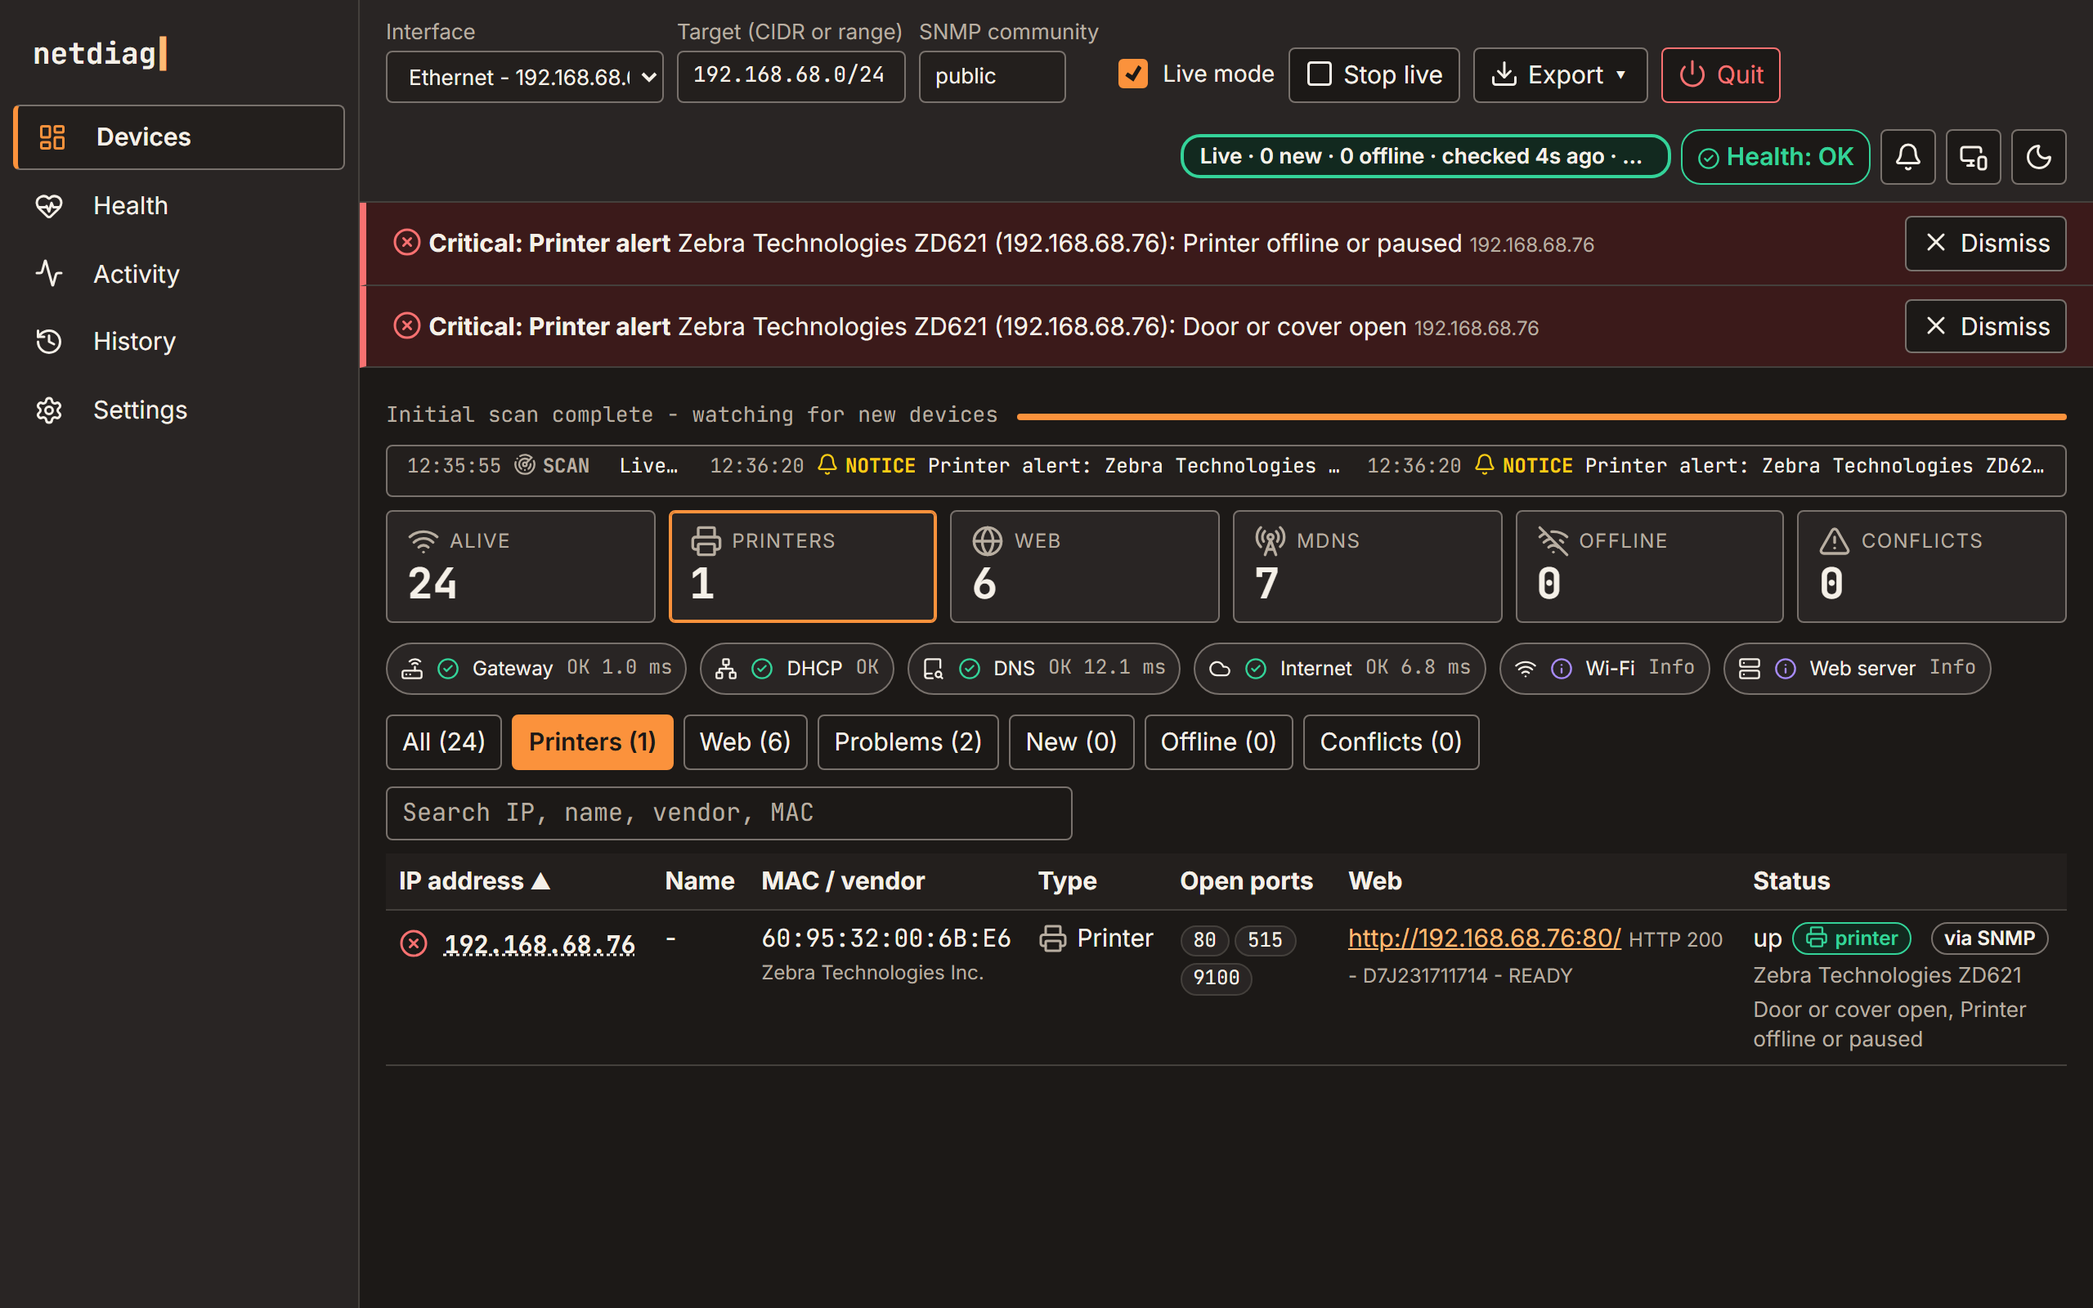
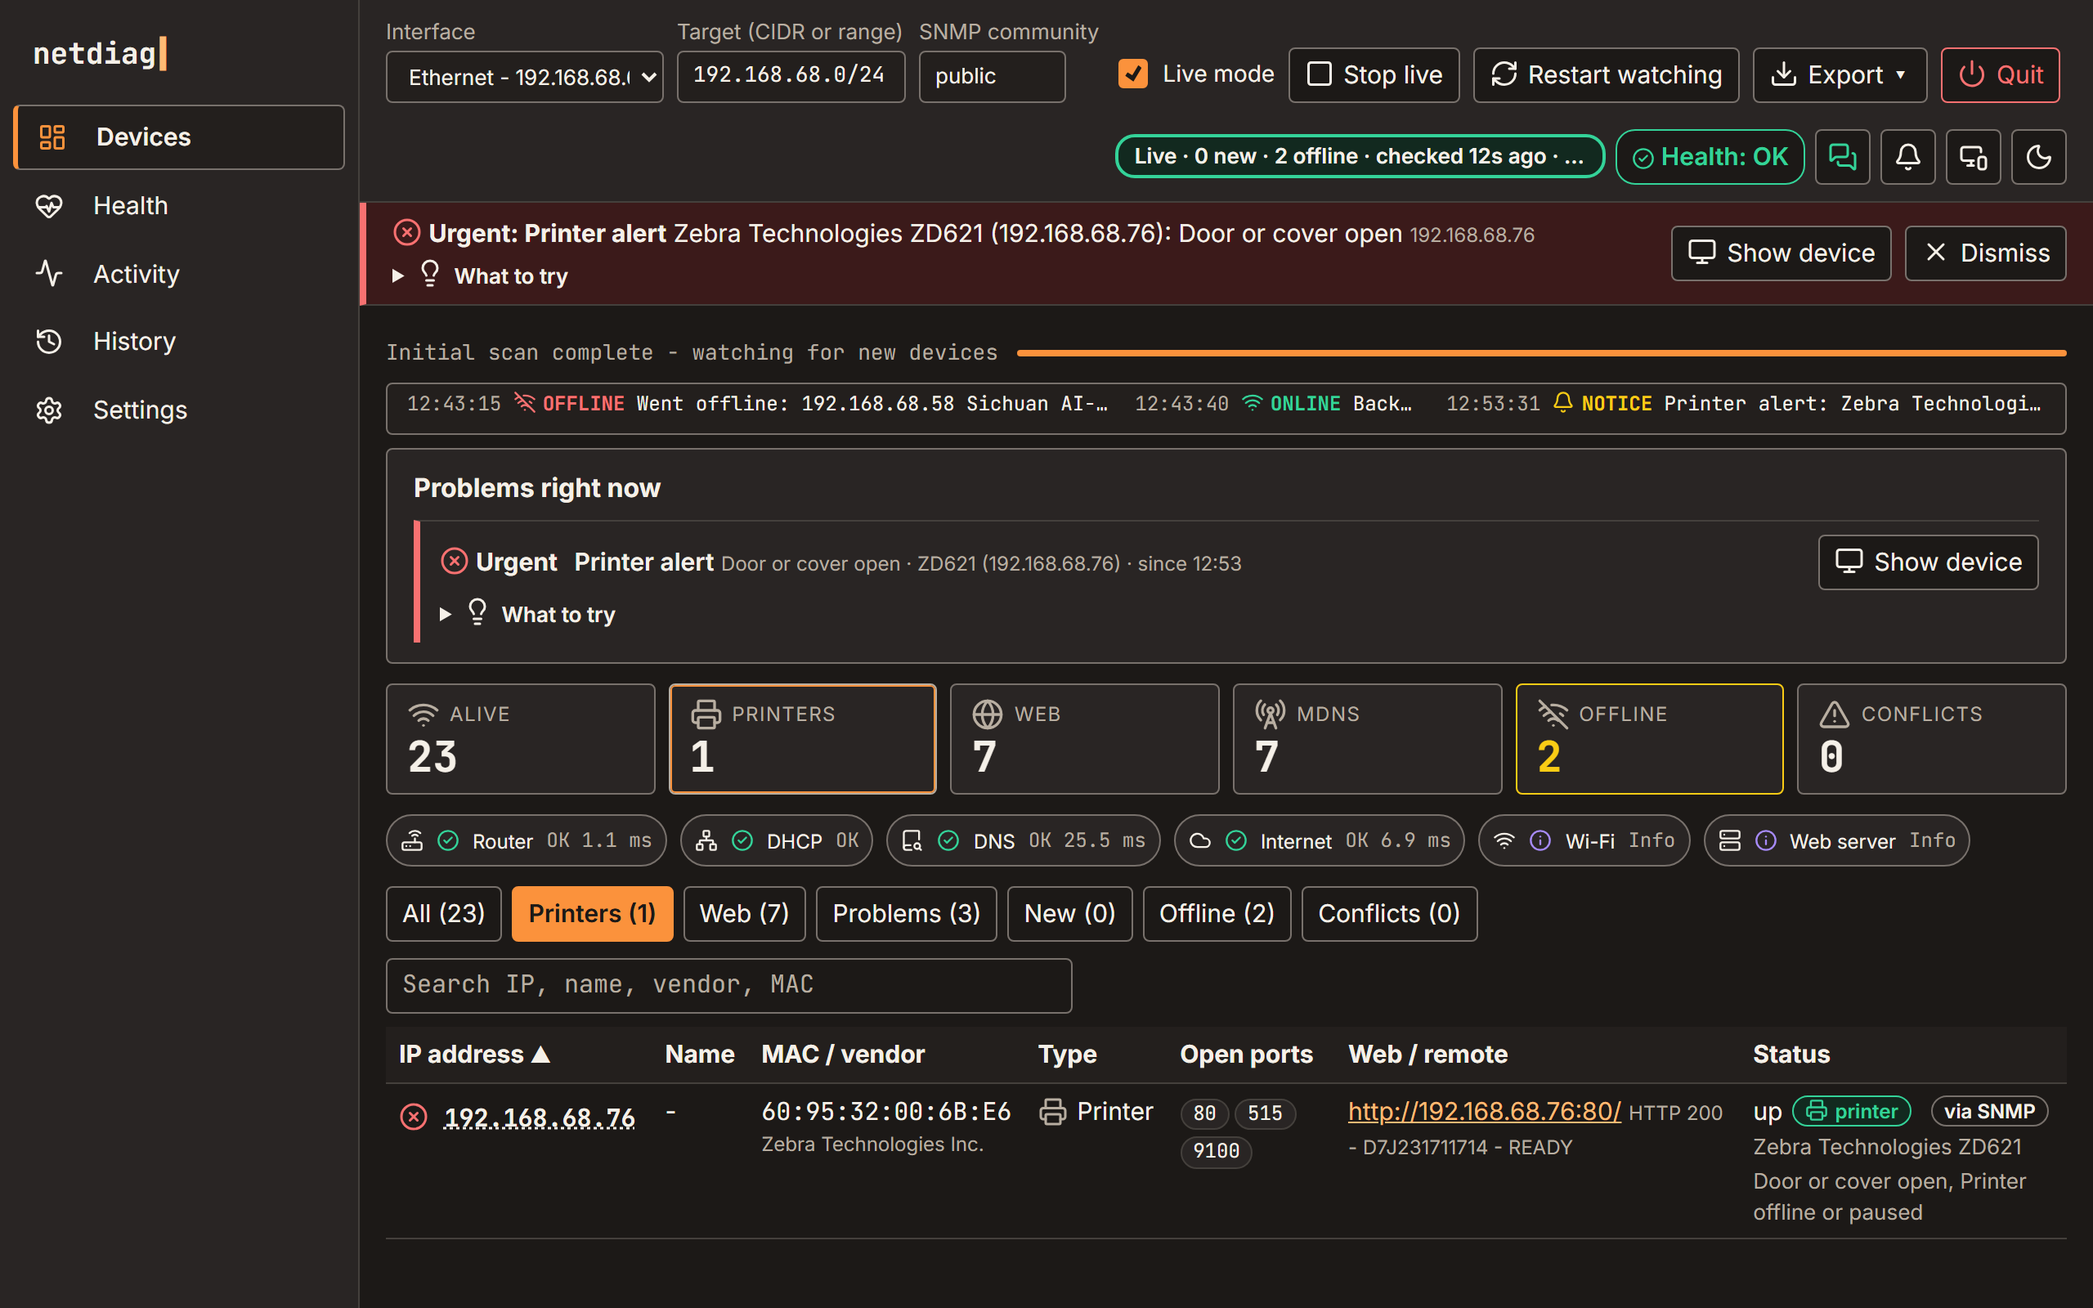
docs: v0.6 screenshots from the real Zebra and bubbles; site pill v0.6.0
The four real-zebra shots are retaken with the release candidate in one
run (cover opened 12:53:31, Fixed 12:54:06), and bubbles-resolved.png
shows the card netdiag closed with its "Fixed at 12:54" note. The site's
Zebra story and the README captions now describe these v0.6 shots, the
chat section shows the resolved card, and the version pill says v0.6.0.
docs-shots and site-shots were run again for the release.

diff --git a/docs/index.html b/docs/index.html
@@ -41,7 +41,7 @@
 <main id="main">
   <section class="hero" id="top">
     <div class="wrap narrow">
-      <p class="pill"><span class="pulse" aria-hidden="true"></span> v0.5.8 · Windows &amp; macOS · one binary</p>
+      <p class="pill"><span class="pulse" aria-hidden="true"></span> v0.6.0 · Windows &amp; macOS · one binary</p>
       <h1>Know what is on your network in <em>ten&nbsp;seconds</em>.</h1>
       <p class="capability">Printers, web pages, IP conflicts, and the health of the gateway, DHCP, DNS and Wi-Fi, in one window.</p>
       <p class="lede">netdiag sweeps the local subnet with ping, ARP, port probes, SNMP, mDNS and IPP, then shows what answered, what it is, and what is wrong with it. Built for whoever gets the call when the printer stops or the Wi-Fi “is down”.</p>
@@ -96,15 +96,15 @@
       <p class="sub">Turn on <b>Live mode</b> and netdiag keeps watching after the first scan: new devices, devices that drop off, IP conflicts, failing health checks, and above all printers. A jam, an open door or a paused printer shows up within seconds, and so does the fix.</p>
 
       <ol class="timeline" aria-label="A real fault on a Zebra ZD621, at the times netdiag logged it">
-        <li class="tick"><span class="t">12:35:55</span><b>Live monitoring starts</b><span>The first scan finishes; the Zebra is up and green.</span></li>
+        <li class="tick"><span class="t">12:30:26</span><b>Live monitoring starts</b><span>The first scan finishes; the Zebra is up and green.</span></li>
         <li class="tick warmup"><span class="t">cover opened</span><b>Fast status check</b><span>Every 5 s, one small SNMP request reads device status, printer status and error flags.</span></li>
-        <li class="tick hot"><span class="t">12:36:20</span><b>One urgent alert</b><span>Door or cover open: a red banner, a beep, a desktop notification. The printer also says it is offline or paused; netdiag counts that as part of the open cover.</span></li>
-        <li class="tick ok"><span class="t">12:36:45</span><b>Fixed</b><span>Cover closed: the same banner turns into Fixed and says what cleared, so you know it is safe to print.</span></li>
+        <li class="tick hot"><span class="t">12:53:31</span><b>One urgent alert</b><span>Door or cover open: a red banner, a beep, a desktop notification. The printer also says it is offline or paused; netdiag counts that as part of the open cover.</span></li>
+        <li class="tick ok"><span class="t">12:54:06</span><b>Fixed</b><span>Cover closed: the same banner turns into Fixed and says what cleared, so you know it is safe to print. A connected team chat gets its card closed in the same second.</span></li>
       </ol>
-      <p class="realnote"><svg class="ico" aria-hidden="true"><use href="assets/icons.svg#i-camera"></use></svg>Real hardware, not a mock-up: these screenshots were captured from netdiag 0.5 watching a Zebra ZD621 label printer while someone opened and closed its cover, so they still show two critical banners and a separate "Printer OK again" notice. Since 0.6 the open cover is one alert, "Door or cover open", and its banner turns into <b>Fixed</b> when the cover closes, as the timeline above says.</p>
+      <p class="realnote"><svg class="ico" aria-hidden="true"><use href="assets/icons.svg#i-camera"></use></svg>Real hardware, not a mock-up: these screenshots were captured from netdiag 0.6 watching a Zebra ZD621 label printer while someone opened and closed its cover, at the times above.</p>
 
       <figure class="shot live-shot"><div class="window"><div class="chrome" aria-hidden="true"><span class="dot"></span><span class="dot"></span><span class="dot"></span><span class="title">Live · Zebra ZD621 · cover open</span></div>
-        <button type="button" class="zoom" aria-label="Enlarge screenshot: live mode with printer alerts"><img src="assets/shots/real-zebra-fault.png" width="2560" height="1600" loading="lazy" alt="netdiag 0.5 in live mode on a real network: two critical banners for a Zebra ZD621, door or cover open and printer offline or paused (since 0.6 this is one Door or cover open alert). The printer row has a red status icon and names both alerts."></button></div></figure>
+        <button type="button" class="zoom" aria-label="Enlarge screenshot: live mode with printer alerts"><img src="assets/shots/real-zebra-fault.png" width="2560" height="1600" loading="lazy" alt="Live mode on a real network: one urgent banner, Printer alert, Zebra Technologies ZD621 (192.168.68.76): Door or cover open, the same problem on the Problems right now card, and the printer row with a red status icon naming door or cover open and printer offline or paused."></button></div></figure>
 
       <div class="livegrid">
         <article class="card"><svg class="ico" aria-hidden="true"><use href="assets/icons.svg#i-clock"></use></svg><h3>Checks every few seconds</h3><p>Every 5 seconds by default (2 to 300, in Settings), each printer gets a tiny three-value SNMP read. A full read of supplies, trays and alerts runs when something changes, and every 60 seconds.</p></article>
@@ -117,33 +117,33 @@
         <div class="copy">
           <p class="reading-label">The drawer, mid-fault</p>
           <h3>Exactly what the printer is saying.</h3>
-          <p>The Zebra reports trouble only through its SNMP error flags, and its own alert list stays empty. netdiag turns <code>doorOpen</code> and <code>offline</code> into named urgent alerts, and shows the raw device status, printer status and error state underneath.</p>
+          <p>The Zebra reports trouble only through its SNMP error flags, and its own alert list stays empty. netdiag turns <code>doorOpen</code> into one named urgent alert, Door or cover open (the <code>offline</code> flag that comes with it is part of it), and shows the raw device status, printer status and error state underneath.</p>
           <ul class="readings"><li class="r-bad">device status down</li><li class="r-bad">doorOpen, offline</li><li>via SNMP</li></ul>
         </div>
         <figure class="shot"><div class="window"><div class="chrome" aria-hidden="true"><span class="dot"></span><span class="dot"></span><span class="dot"></span><span class="title">Devices · 192.168.68.76</span></div>
-          <button type="button" class="zoom" aria-label="Enlarge screenshot: printer details during a fault"><img src="assets/shots/real-zebra-fault-drawer.png" width="2560" height="1600" loading="lazy" alt="netdiag 0.5's details drawer for the Zebra during the fault: status Up, printer error; critical alerts for door or cover open and printer offline or paused; SNMP device status down, error state doorOpen, offline"></button></div></figure>
+          <button type="button" class="zoom" aria-label="Enlarge screenshot: printer details during a fault"><img src="assets/shots/real-zebra-fault-drawer.png" width="2560" height="1600" loading="lazy" alt="The details drawer for the Zebra during the fault: status Up, printer error; the printer's flags door or cover open and printer offline or paused; SNMP device status down, printer status other, error state doorOpen, offline"></button></div></figure>
       </div>
 
       <div class="feature slim">
         <div class="copy">
           <p class="reading-label">And when it is fixed</p>
           <h3>Green again, with a note saying why.</h3>
-          <p>As soon as the cover closes and the flags clear, the row turns green and the alert's banner turns into <b>Fixed</b>, naming what cleared and how long it lasted. It stays until you dismiss it, so nobody misses that something happened. (The screenshot is from netdiag 0.5, which showed a separate <b>Printer OK again</b> notice instead.)</p>
+          <p>As soon as the cover closes and the flags clear, the row turns green and the alert's banner turns into <b>Fixed</b>, naming what cleared and how long it lasted. It stays until you dismiss it, so nobody misses that something happened.</p>
           <ul class="readings"><li class="r-ok">Fixed</li><li class="r-info">Printer alert cleared</li></ul>
         </div>
         <figure class="shot"><div class="window"><div class="chrome" aria-hidden="true"><span class="dot"></span><span class="dot"></span><span class="dot"></span><span class="title">Live · Zebra ZD621 · recovered</span></div>
-          <button type="button" class="zoom" aria-label="Enlarge screenshot: printer recovered"><img src="assets/shots/real-zebra-recovered.png" width="2560" height="1600" loading="lazy" alt="netdiag 0.5 with the Zebra back to a green status and a Printer OK again notice above the earlier critical banners (since 0.6 the alert's banner turns into Fixed)"></button></div></figure>
+          <button type="button" class="zoom" aria-label="Enlarge screenshot: printer recovered"><img src="assets/shots/real-zebra-recovered.png" width="2560" height="1600" loading="lazy" alt="The Zebra back to a green status, with the banner Fixed: Printer alert cleared at 12:54 (lasted less than a minute), cleared Door or cover open, and the same item under Fixed in the last day on the Problems right now card"></button></div></figure>
       </div>
 
       <div class="feature flip slim">
         <div class="copy">
           <p class="reading-label">The record</p>
           <h3>Every step, timestamped.</h3>
-          <p>The activity log keeps the whole story: the scan, the alert, a device elsewhere on the network that dropped off, and the fix 25 seconds later, naming what cleared. Copy it into a ticket or a chat in one click. (The screenshot is from netdiag 0.5: two alerts and Printer OK again.)</p>
-          <ul class="readings"><li>12:36:20 alert</li><li class="r-ok">12:36:45 Fixed</li></ul>
+          <p>The activity log keeps the whole story: the scan, devices elsewhere on the network dropping off and coming back, the alert, and the fix 35 seconds later, naming what cleared. Copy it into a ticket or a chat in one click.</p>
+          <ul class="readings"><li>12:53:31 alert</li><li class="r-ok">12:54:06 Fixed</li></ul>
         </div>
         <figure class="shot"><div class="window"><div class="chrome" aria-hidden="true"><span class="dot"></span><span class="dot"></span><span class="dot"></span><span class="title">Activity</span></div>
-          <button type="button" class="zoom" aria-label="Enlarge screenshot: activity log of the printer fault"><img src="assets/shots/real-zebra-activity.png" width="2560" height="1600" loading="lazy" alt="netdiag 0.5's activity log from the real run: scan stages, two printer alerts at 12:36:20, a device going offline, and Printer OK again at 12:36:45 naming both cleared alerts (since 0.6, one alert and a Fixed line)"></button></div></figure>
+          <button type="button" class="zoom" aria-label="Enlarge screenshot: activity log of the printer fault"><img src="assets/shots/real-zebra-activity.png" width="2560" height="1600" loading="lazy" alt="The activity log from the real run: scan stages, devices going offline and back online, the printer alert at 12:53:31, and Fixed at 12:54:06 naming Door or cover open as cleared"></button></div></figure>
       </div>
     </div>
   </section>
@@ -174,6 +174,16 @@
         </div>
         <figure class="shot dialog-shot"><div class="window"><div class="chrome" aria-hidden="true"><span class="dot"></span><span class="dot"></span><span class="dot"></span><span class="title">Settings · Team chat</span></div>
           <button type="button" class="zoom" aria-label="Enlarge screenshot: team chat settings"><img src="assets/shots/settings-chat.png" width="1180" height="576" loading="lazy" alt="Settings, Team chat (bubbles): status Connected, sending to #netdiag-alerts on Office, the Send alerts to team chat switch, Team chat alert level: Problems and warnings, and the Send test alert, Change channel and Disconnect buttons"></button></div></figure>
+      </div>
+      <div class="feature slim">
+        <div class="copy">
+          <p class="reading-label">And when it is fixed</p>
+          <h3>netdiag closes its own card.</h3>
+          <p>From the same real run as the Zebra story above: when the cover closed, netdiag marked its card in #netdiag-alerts resolved and said in its thread when it was fixed and how long it lasted, so the team knows nobody needs to go and look. A new problem later opens a new card.</p>
+          <ul class="readings"><li class="r-ok">Resolved</li><li class="r-ok">Fixed at 12:54</li><li>same card</li></ul>
+        </div>
+        <figure class="shot"><div class="window"><div class="chrome" aria-hidden="true"><span class="dot"></span><span class="dot"></span><span class="dot"></span><span class="title">bubbles · #netdiag-alerts</span></div>
+          <button type="button" class="zoom" aria-label="Enlarge screenshot: the chat card resolved by netdiag"><img src="assets/shots/bubbles-resolved.png" width="2560" height="1600" loading="lazy" alt="bubbles, channel #netdiag-alerts: netdiag's card Printer alert: ZD621 (192.168.68.76), Door or cover open, with what to try and the device's details, marked Resolved; its thread has netdiag's reply: Resolved by netdiag: Fixed at 12:54 (lasted less than a minute). Zebra Technologies ZD621 (192.168.68.76): cleared Door or cover open."></button></div></figure>
       </div>
     </div>
   </section>

diff --git a/README.md b/README.md
@@ -316,16 +316,16 @@ In live mode netdiag keeps watching every printer it found through SNMP, so a ja
 - **Error flags become alerts.** Some printers, including Zebra label printers, report problems only through the standard SNMP error flags and leave their alert list empty. netdiag turns those flags into named alerts. Out of paper or toner, door or cover open, paper jam, offline or paused, service requested, missing tray or supply, and output tray full are **urgent**. Paper or toner low, output tray nearly full, input tray empty and maintenance overdue are **warnings**. A printer that only reports "down" or "warning" as its device status gets a general alert. Printers that fill in their own alert list are shown as they report it.
 - **What you see.** A printer with an urgent alert gets a red ✖ status icon (amber ▲ for a warning), even though it still answers ping. The status column and the details panel name the problem (for example "Up, printer error" and "Door or cover open, Printer offline or paused"), and the printer is listed under the **Problems** filter.
 - **One alert per problem.** A printer that stops for a reason, such as an open cover or a paper jam, usually reports "Printer offline or paused" as well. netdiag counts that as part of the reason, so opening a Zebra's cover gives one alert, "Door or cover open". "Printer offline or paused" on its own (someone paused the printer) is an alert of its own.
-- **Back to normal.** Each printer alert is fixed on its own: when the printer stops reporting it, that alert's banner turns into **Fixed** ("Printer alert cleared") and names the alert. A Zebra clears "Door or cover open" a moment before "Printer offline or paused", so its banner turns into Fixed once both are gone: the cover is closed and the printer has resumed. If the printer fails again soon after, the new alert is shown straight away, without waiting for the alert cooldown. (The four Zebra screenshots below were taken with netdiag 0.5, before this changed: they still show two critical banners, "Door or cover open" and "Printer offline or paused", and a separate "Printer OK again" notice. Since 0.6 the open cover is one alert whose banner turns into Fixed.)
+- **Back to normal.** Each printer alert is fixed on its own: when the printer stops reporting it, that alert's banner turns into **Fixed** ("Printer alert cleared") and names the alert. A Zebra clears "Door or cover open" a moment before "Printer offline or paused", so its banner turns into Fixed once both are gone: the cover is closed and the printer has resumed. If the printer fails again soon after, the new alert is shown straight away, without waiting for the alert cooldown. (The four Zebra screenshots below are from a real ZD621 with netdiag 0.6: its cover was opened at 12:53:31 and closed 35 seconds later.)
 - Only printers that answer SNMP get the fast check. Printers found only through IPP or mDNS are refreshed every 60 seconds.
 
-![netdiag 0.5 with a Zebra printer's cover open: red status icon and two critical alert banners (since 0.6, one Door or cover open alert)](docs/assets/shots/real-zebra-fault.png)
+![A Zebra printer with its cover open: red status icon, one urgent Door or cover open banner, and the same problem on the Problems right now card](docs/assets/shots/real-zebra-fault.png)
 
-![netdiag 0.5's details panel for the same printer, listing the alerts and the SNMP status](docs/assets/shots/real-zebra-fault-drawer.png)
+![The details panel for the same printer: Up, printer error; the printer's own flags (door open, offline or paused) and its SNMP status](docs/assets/shots/real-zebra-fault-drawer.png)
 
-![netdiag 0.5 with the printer fixed: green status and a Printer OK again notice (since 0.6, the alert's banner turns into Fixed)](docs/assets/shots/real-zebra-recovered.png)
+![The printer fixed: green status, and the alert's banner turned into Fixed, cleared Door or cover open](docs/assets/shots/real-zebra-recovered.png)
 
-![netdiag 0.5's Activity log with the two alerts and the recovery notice (since 0.6, one alert and a Fixed line)](docs/assets/shots/real-zebra-activity.png)
+![The Activity log of the same run: the printer alert at 12:53:31 and its Fixed line at 12:54:06](docs/assets/shots/real-zebra-activity.png)
 
 ![Settings with the printer status check interval](docs/img/settings-printer-poll.png)
 
